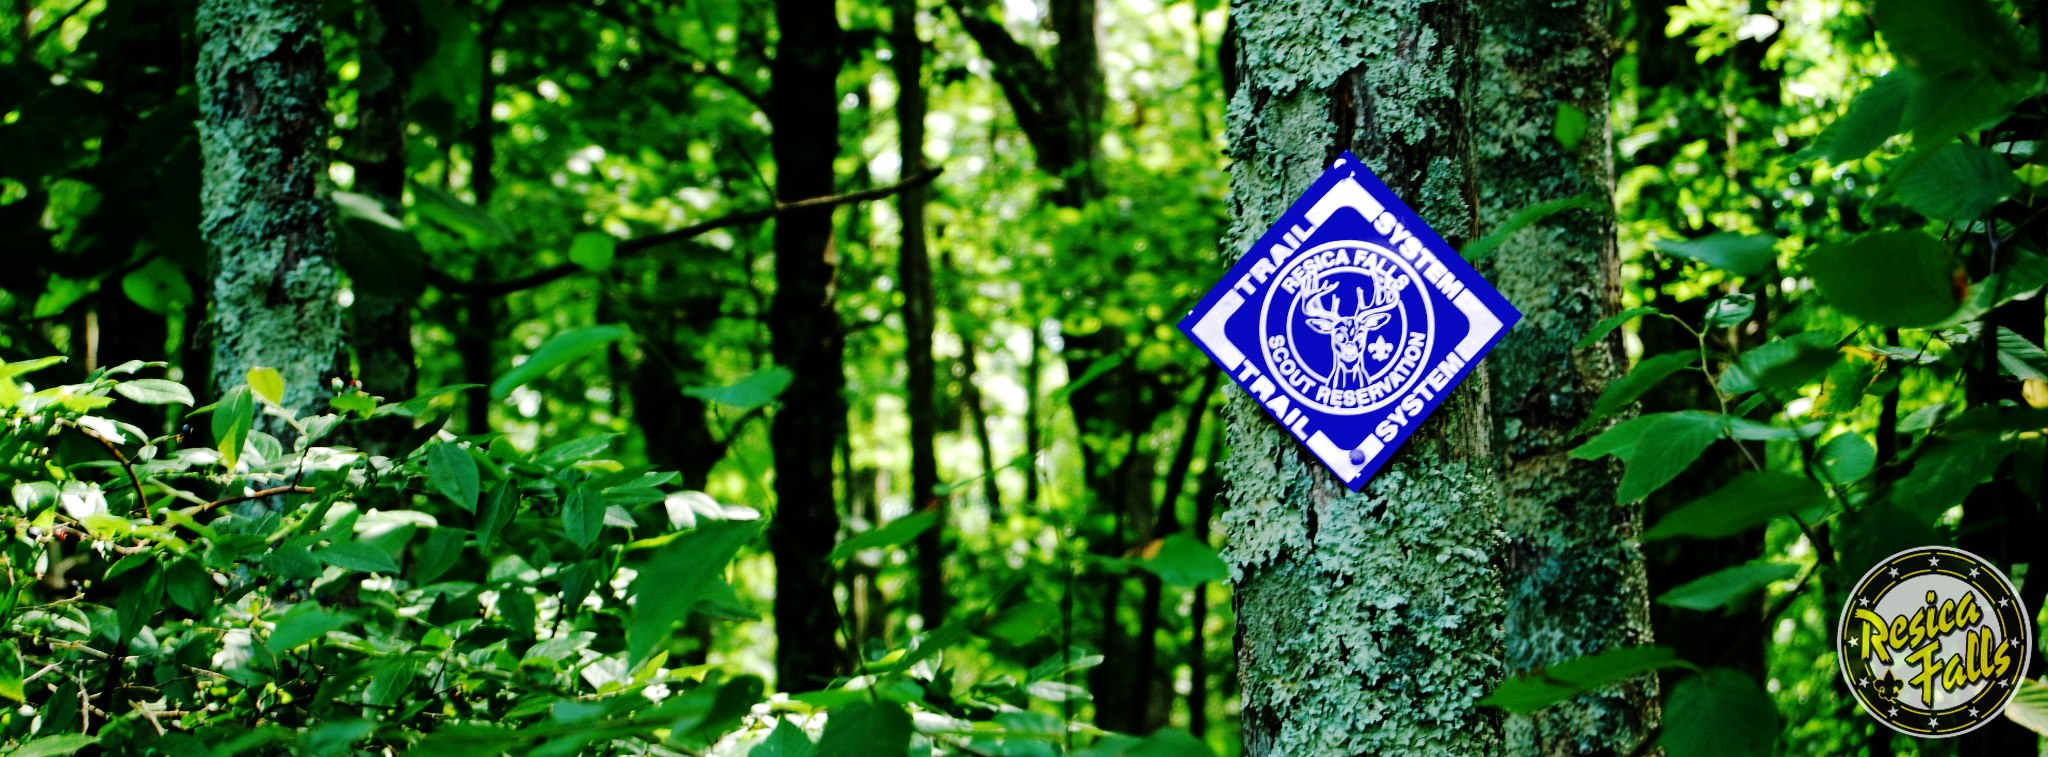
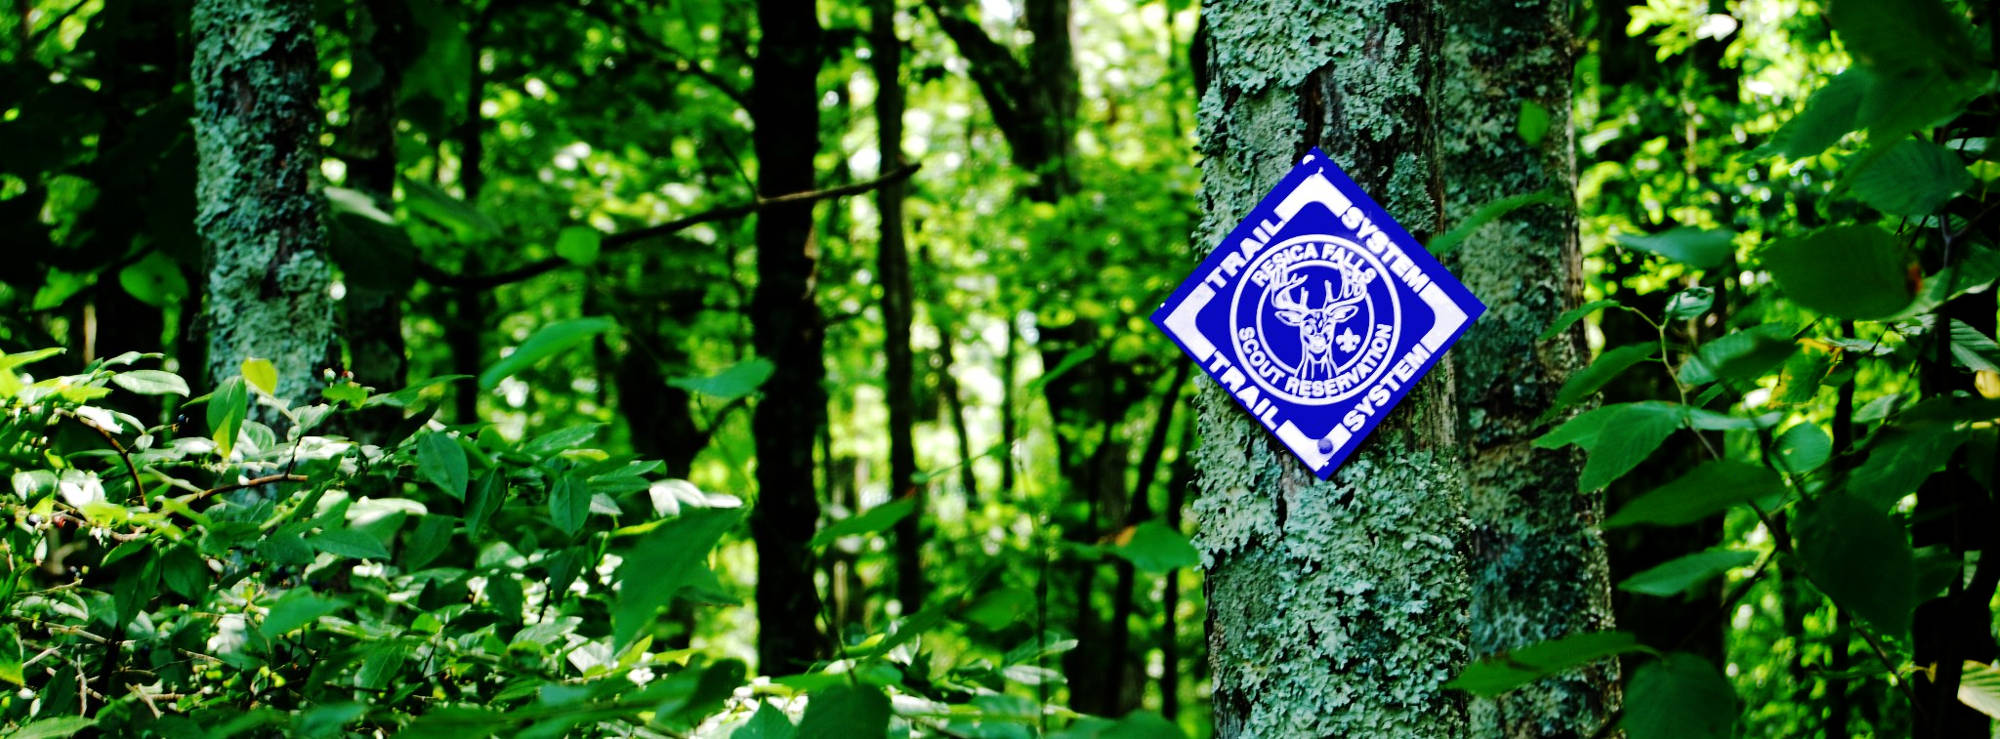
Fixed up 404 image and styling.

Changed region(s): [[0.899, 0.7158, 0.992, 0.9959]]

diff --git a/_css/site.css b/_css/site.css
@@ -134,5 +134,5 @@ h1, h2, h3, h4, h5, h6, .h1, .h2, .h3, .h4, .h5, .h6{
 			background-size: cover;
 			background-position: center;
 			background-repeat: no-repeat;
-			height: 26rem;
+			height: 23rem;
 		}

diff --git a/404.php b/404.php
@@ -19,13 +19,13 @@
 			</div>
 			<div class="row">
 				<p>
-					<div class="h5">Sorry,</div> but it looks like you've wandered off the trail.
+					<strong>Sorry,</strong> but it looks like you've wandered off the trail.
 				</p>
 				<p>
 					You can either use the menu above or join us back on our <a href="/index">homepage</a>.
 				</p>
 				<p>
-					If you think we made a mistake or you still need help, please let us know by <a href="contact-us">contacting us</p>.
+					If you think we made a mistake or you still need help, please let us know by <a href="/contact-us">contacting us</p>.
 				</p>
 			</div>
 		</div>
